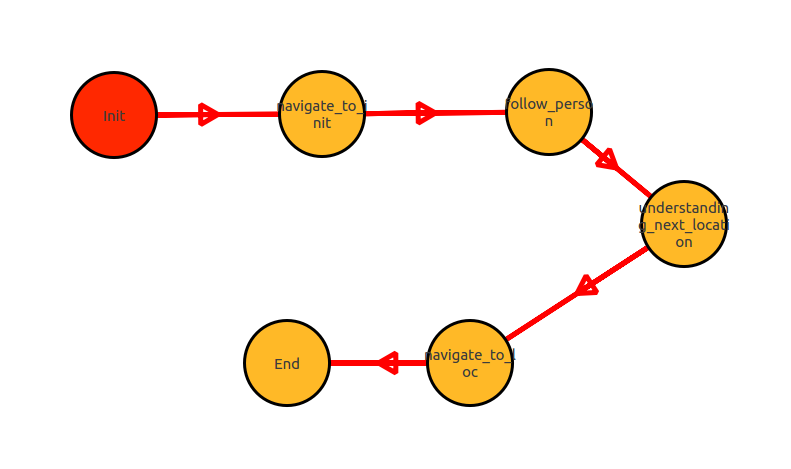
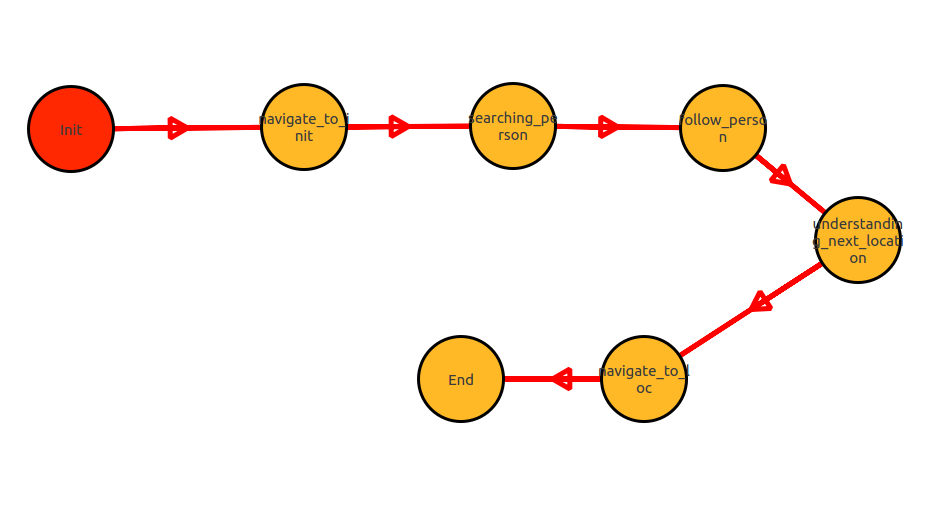
Add searching person state

Changed region(s): [[0.0303, 0.1493, 0.9709, 0.8657]]

diff --git a/helpMeCarry/src/HelpMeCarry_HFSM.cpp b/helpMeCarry/src/HelpMeCarry_HFSM.cpp
@@ -70,45 +70,7 @@ bool HelpMeCarry_HFSM::ok()
 
     switch (state_)
     {
-      	case UNDERSTANDING_NEXT_LOCATION:
-
-	understanding_next_location_code_iterative();
-
-	msg.data = "understanding_next_location";
-	if(understanding_next_location_2_navigate_to_loc())
-	{
-
-	deactivateAllDeps();
-
-	state_ = NAVIGATE_TO_LOC;
-	state_ts_ = ros::Time::now();
-
-	navigate_to_loc_activateDeps();
-	navigate_to_loc_code_once();
-	}
-	state_pub_.publish(msg);
-	break;
-
-	case INIT:
-
-	Init_code_iterative();
-
-	msg.data = "Init";
-	if(Init_2_navigate_to_init())
-	{
-
-	deactivateAllDeps();
-
-	state_ = NAVIGATE_TO_INIT;
-	state_ts_ = ros::Time::now();
-
-	navigate_to_init_activateDeps();
-	navigate_to_init_code_once();
-	}
-	state_pub_.publish(msg);
-	break;
-
-	case END:
+      	case END:
 
 	End_code_iterative();
 
@@ -135,12 +97,69 @@ bool HelpMeCarry_HFSM::ok()
 	state_pub_.publish(msg);
 	break;
 
+	case UNDERSTANDING_NEXT_LOCATION:
+
+	understanding_next_location_code_iterative();
+
+	msg.data = "understanding_next_location";
+	if(understanding_next_location_2_navigate_to_loc())
+	{
+
+	deactivateAllDeps();
+
+	state_ = NAVIGATE_TO_LOC;
+	state_ts_ = ros::Time::now();
+
+	navigate_to_loc_activateDeps();
+	navigate_to_loc_code_once();
+	}
+	state_pub_.publish(msg);
+	break;
+
 	case NAVIGATE_TO_INIT:
 
 	navigate_to_init_code_iterative();
 
 	msg.data = "navigate_to_init";
-	if(navigate_to_init_2_follow_person())
+	if(navigate_to_init_2_searching_person())
+	{
+
+	deactivateAllDeps();
+
+	state_ = SEARCHING_PERSON;
+	state_ts_ = ros::Time::now();
+
+	searching_person_activateDeps();
+	searching_person_code_once();
+	}
+	state_pub_.publish(msg);
+	break;
+
+	case INIT:
+
+	Init_code_iterative();
+
+	msg.data = "Init";
+	if(Init_2_navigate_to_init())
+	{
+
+	deactivateAllDeps();
+
+	state_ = NAVIGATE_TO_INIT;
+	state_ts_ = ros::Time::now();
+
+	navigate_to_init_activateDeps();
+	navigate_to_init_code_once();
+	}
+	state_pub_.publish(msg);
+	break;
+
+	case SEARCHING_PERSON:
+
+	searching_person_code_iterative();
+
+	msg.data = "searching_person";
+	if(searching_person_2_follow_person())
 	{
 
 	deactivateAllDeps();
@@ -186,16 +205,6 @@ HelpMeCarry_HFSM::deactivateAllDeps()
 };
 
 void
-HelpMeCarry_HFSM::understanding_next_location_activateDeps()
-{
-}
-
-void
-HelpMeCarry_HFSM::Init_activateDeps()
-{
-}
-
-void
 HelpMeCarry_HFSM::End_activateDeps()
 {
 }
@@ -206,7 +215,22 @@ HelpMeCarry_HFSM::navigate_to_loc_activateDeps()
 }
 
 void
+HelpMeCarry_HFSM::understanding_next_location_activateDeps()
+{
+}
+
+void
 HelpMeCarry_HFSM::navigate_to_init_activateDeps()
+{
+}
+
+void
+HelpMeCarry_HFSM::Init_activateDeps()
+{
+}
+
+void
+HelpMeCarry_HFSM::searching_person_activateDeps()
 {
 }
 

diff --git a/helpMeCarry/src/HelpMeCarry_HFSM.h b/helpMeCarry/src/HelpMeCarry_HFSM.h
@@ -55,24 +55,27 @@ public:
 
   void activateCode();
 
-  	virtual void understanding_next_location_code_iterative() {};
-	virtual void understanding_next_location_code_once() {};
-	virtual void Init_code_iterative() {};
-	virtual void Init_code_once() {};
-	virtual void End_code_iterative() {};
+  	virtual void End_code_iterative() {};
 	virtual void End_code_once() {};
 	virtual void navigate_to_loc_code_iterative() {};
 	virtual void navigate_to_loc_code_once() {};
+	virtual void understanding_next_location_code_iterative() {};
+	virtual void understanding_next_location_code_once() {};
 	virtual void navigate_to_init_code_iterative() {};
 	virtual void navigate_to_init_code_once() {};
+	virtual void Init_code_iterative() {};
+	virtual void Init_code_once() {};
+	virtual void searching_person_code_iterative() {};
+	virtual void searching_person_code_once() {};
 	virtual void follow_person_code_iterative() {};
 	virtual void follow_person_code_once() {};
 
-  	virtual bool follow_person_2_understanding_next_location() {return false;};
-	virtual bool Init_2_navigate_to_init() {return false;};
-	virtual bool navigate_to_init_2_follow_person() {return false;};
+  	virtual bool understanding_next_location_2_navigate_to_loc() {return false;};
 	virtual bool navigate_to_loc_2_End() {return false;};
-	virtual bool understanding_next_location_2_navigate_to_loc() {return false;};
+	virtual bool navigate_to_init_2_searching_person() {return false;};
+	virtual bool follow_person_2_understanding_next_location() {return false;};
+	virtual bool Init_2_navigate_to_init() {return false;};
+	virtual bool searching_person_2_follow_person() {return false;};
 
 
   bool ok();
@@ -84,20 +87,22 @@ private:
   void step() {}
 
   	void deactivateAllDeps();
-	void understanding_next_location_activateDeps();
-	void Init_activateDeps();
 	void End_activateDeps();
 	void navigate_to_loc_activateDeps();
+	void understanding_next_location_activateDeps();
 	void navigate_to_init_activateDeps();
+	void Init_activateDeps();
+	void searching_person_activateDeps();
 	void follow_person_activateDeps();
 
 
-  	static const int UNDERSTANDING_NEXT_LOCATION = 0;
-	static const int INIT = 1;
-	static const int END = 2;
-	static const int NAVIGATE_TO_LOC = 3;
-	static const int NAVIGATE_TO_INIT = 4;
-	static const int FOLLOW_PERSON = 5;
+  	static const int END = 0;
+	static const int NAVIGATE_TO_LOC = 1;
+	static const int UNDERSTANDING_NEXT_LOCATION = 2;
+	static const int NAVIGATE_TO_INIT = 3;
+	static const int INIT = 4;
+	static const int SEARCHING_PERSON = 5;
+	static const int FOLLOW_PERSON = 6;
 
 
   int state_;

diff --git a/helpMeCarry/src/HelpMeCarry_executor.cpp b/helpMeCarry/src/HelpMeCarry_executor.cpp
@@ -77,6 +77,16 @@ void HelpMeCarry_executor::navigate_to_loc_code_iterative()
   navigate_pub.publish(it->second);
 }
 
+void HelpMeCarry_executor::searching_person_code_iterative()
+{
+
+}
+
+void HelpMeCarry_executor::searching_person_code_once()
+{
+
+}
+
 void HelpMeCarry_executor::follow_person_code_once()
 {
   loc_reached = 0;
@@ -98,14 +108,7 @@ void HelpMeCarry_executor::Init_code_once()
 
 void HelpMeCarry_executor::navigate_to_init_code_once()
 {
-  // publicar en /navigate_to un mensaje de tipo geometry_msgs::PoseStamped con la posicion y orientacion del robot
-  /*ROS_INFO("navigate_to_init_code_once");
-  std::map<std::string, geometry_msgs::PoseStamped>::iterator it;
-  it = locations_map.find("init");
-  ROS_INFO("%f %f", it->second.pose.position.x, it->second.pose.position.y);
-  navigate_pub.publish(it->second);
-*/
-  // recibiremos un mensaje en /navigate_to/goal_reached std_msgs::Empty cuando el robot llegue a su destino
+
 }
 
 void HelpMeCarry_executor::navigate_to_init_code_iterative()
@@ -144,10 +147,16 @@ bool HelpMeCarry_executor::Init_2_navigate_to_init()
   return true;
 }
 
-bool HelpMeCarry_executor::navigate_to_init_2_follow_person()
+
+bool HelpMeCarry_executor::navigate_to_init_2_searching_person()
 {
   //return loc_reached;
   return true;
+}
+
+bool HelpMeCarry_executor::searching_person_2_follow_person()
+{
+  return false;
 }
 
 bool HelpMeCarry_executor::understanding_next_location_2_navigate_to_loc()

diff --git a/helpMeCarry/src/HelpMeCarry_executor.h b/helpMeCarry/src/HelpMeCarry_executor.h
@@ -69,10 +69,13 @@ public:
 
   //void End_code_iterative();
 	void End_code_once();
-	bool navigate_to_loc_2_End();
+  void searching_person_code_iterative();
+	void searching_person_code_once();
 
+	bool navigate_to_loc_2_End();
   bool understanding_next_location_2_navigate_to_loc();
-	bool navigate_to_init_2_follow_person();
+  bool navigate_to_init_2_searching_person();
+	bool searching_person_2_follow_person();
 	bool Init_2_navigate_to_init();
 	bool follow_person_2_understanding_next_location();
 
@@ -82,7 +85,6 @@ public:
   void addMapElement(float px, float py, float pz, float orientation, std::string key);
   void errorCb(const std_msgs::String::ConstPtr& msg);
   void talk(std::string str);
-
 
 private:
   ros::NodeHandle nh_;
